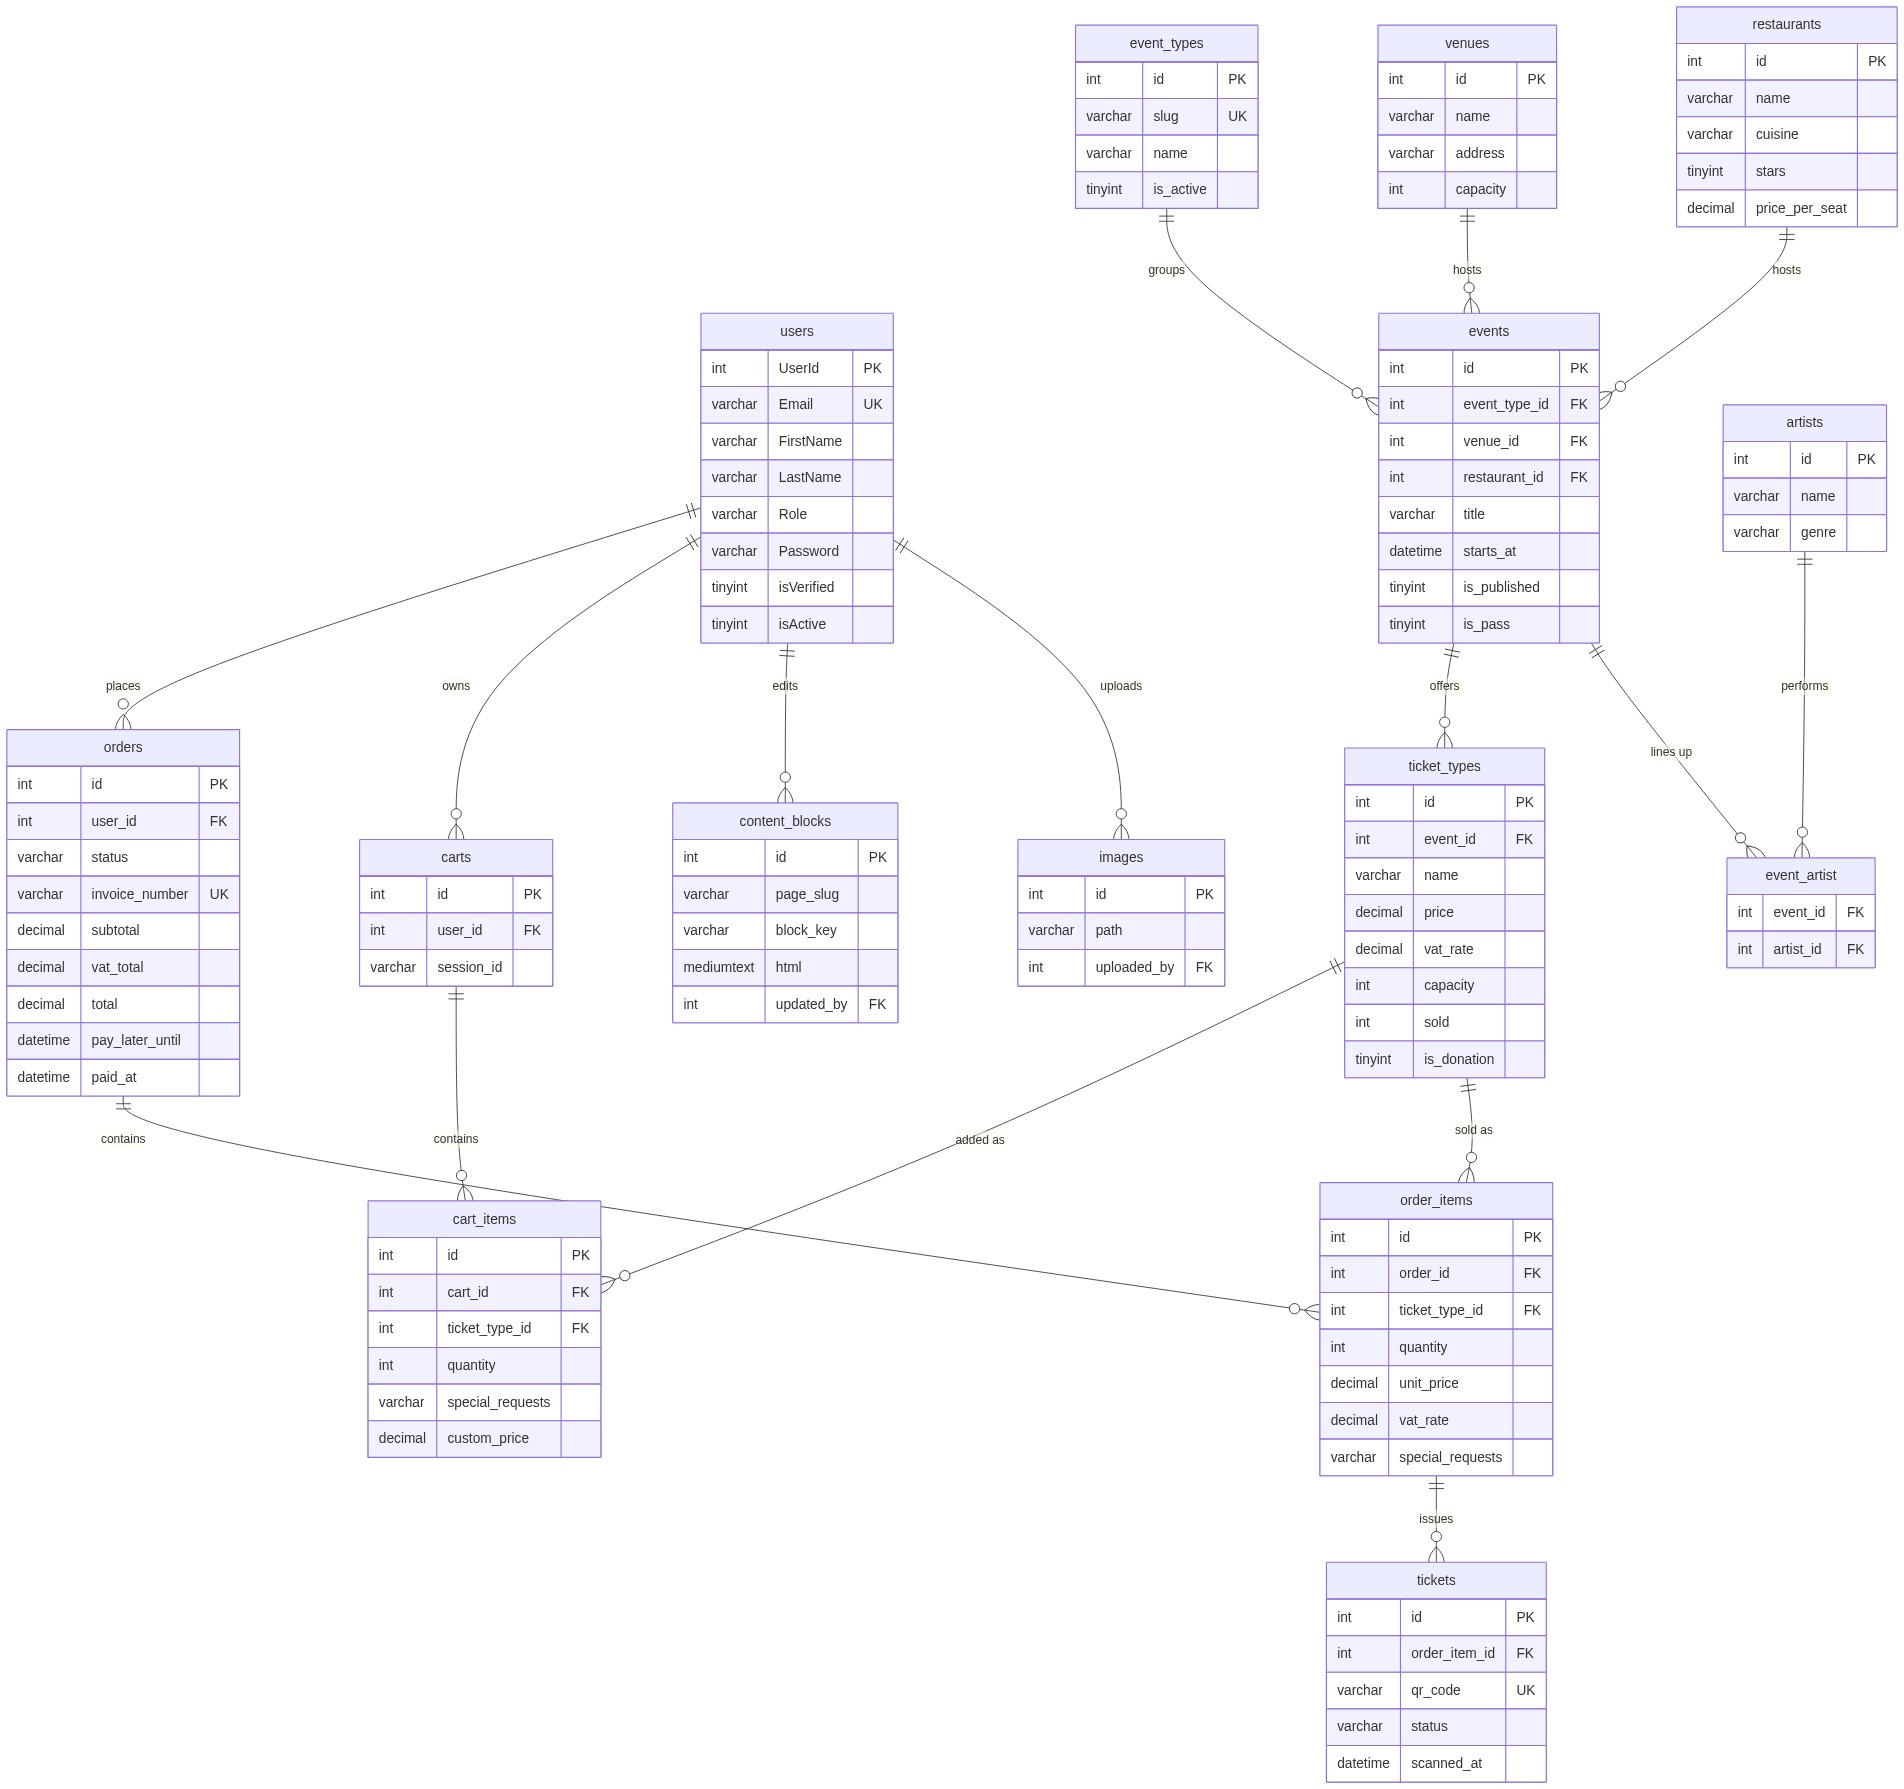
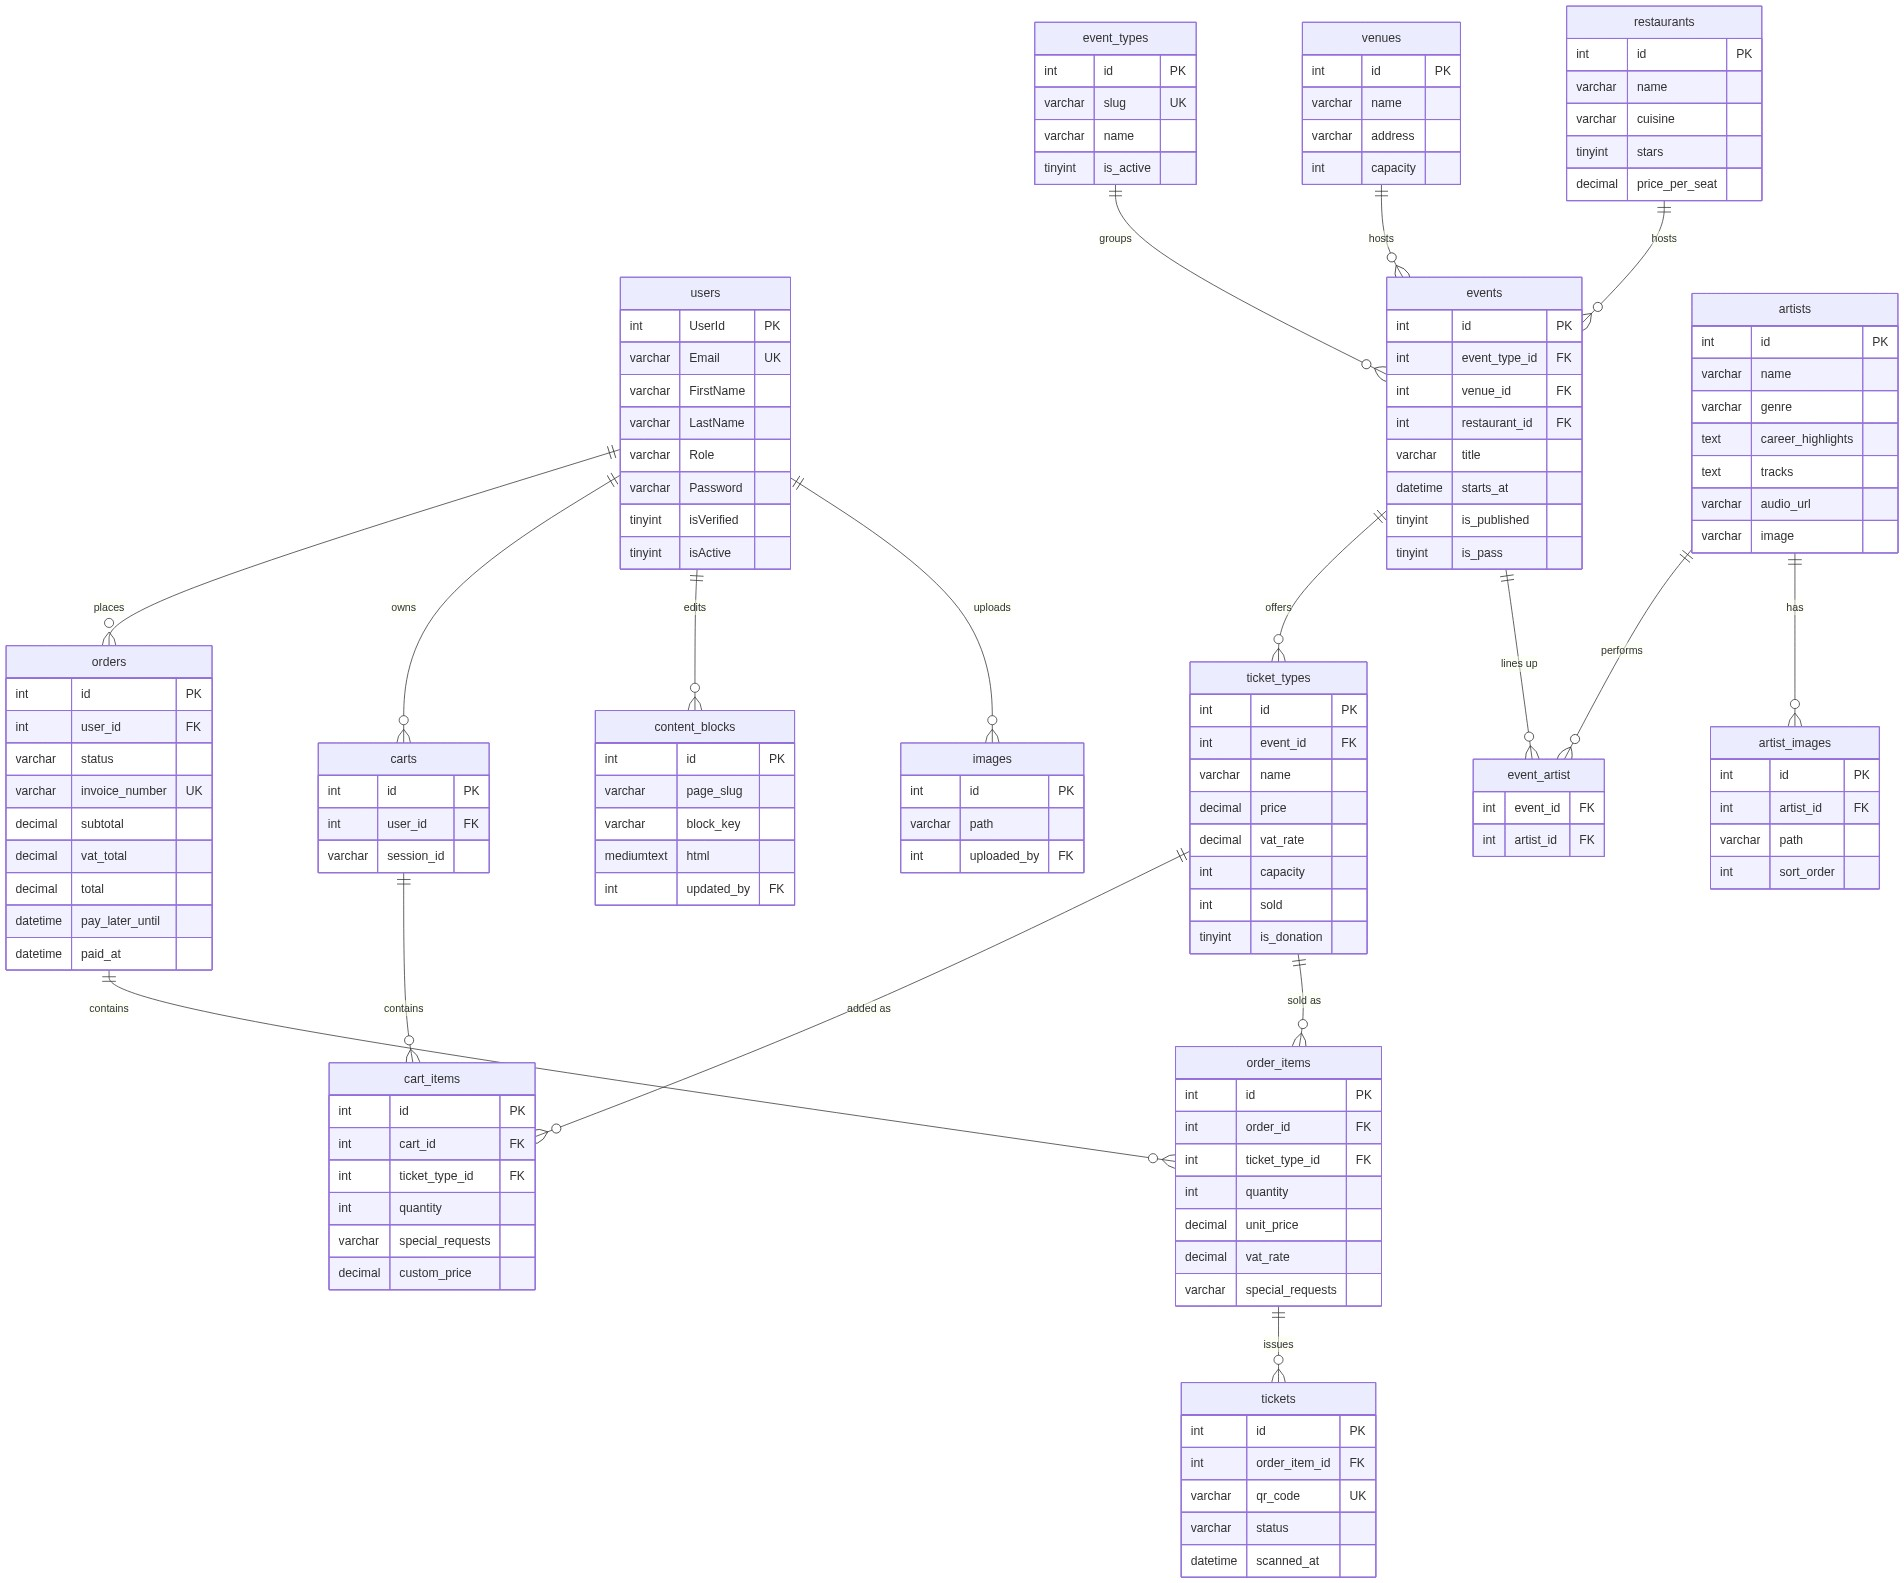
Update technical documentation for artist schema
Regenerates the ERD and UML to include the artist detail fields (career_highlights, tracks, audio_url, image) and the artist_images gallery table.

diff --git a/scripts/gen_technical_docs.py b/scripts/gen_technical_docs.py
@@ -29,6 +29,7 @@ ERD = """erDiagram
     events ||--o{ ticket_types : offers
     events ||--o{ event_artist : "lines up"
     artists ||--o{ event_artist : performs
+    artists ||--o{ artist_images : has
     ticket_types ||--o{ cart_items : "added as"
     ticket_types ||--o{ order_items : "sold as"
     carts ||--o{ cart_items : contains
@@ -68,6 +69,16 @@ ERD = """erDiagram
         int id PK
         varchar name
         varchar genre
+        text career_highlights
+        text tracks
+        varchar audio_url
+        varchar image
+    }
+    artist_images {
+        int id PK
+        int artist_id FK
+        varchar path
+        int sort_order
     }
     events {
         int id PK
@@ -196,6 +207,12 @@ DOMAIN = """classDiagram
         +int id
         +string name
         +string genre
+        +string bio
+        +string career_highlights
+        +string tracks
+        +string audio_url
+        +string[] images
+        +trackList() string[]
     }
     class CartItemModel {
         +int ticket_type_id
@@ -449,7 +466,8 @@ def _entity_table(doc):
         ("event_types", "The six festival events (Jazz, DANCE!, Yummy, History, Magic, Stories)."),
         ("events", "A session/performance under a type, at a venue or restaurant; may be a pass."),
         ("ticket_types", "What can be bought for an event: price, VAT, capacity, donation flag."),
-        ("venues / restaurants / artists", "Catalogue entities; artists link to events many-to-many."),
+        ("venues / restaurants / artists", "Catalogue entities; artists link to events many-to-many and have detail content."),
+        ("artist_images", "Gallery images for an artist's detail page."),
         ("carts / cart_items", "A guest or user cart; lines hold quantity, requests and custom price."),
         ("orders / order_items", "A placed order and its priced lines; status drives pay-later."),
         ("tickets", "Issued per order-item with a unique QR code; scanned at the entrance."),

diff --git a/docs/technical-documentation.md b/docs/technical-documentation.md
@@ -86,6 +86,7 @@ erDiagram
     events ||--o{ ticket_types : offers
     events ||--o{ event_artist : "lines up"
     artists ||--o{ event_artist : performs
+    artists ||--o{ artist_images : has
     ticket_types ||--o{ cart_items : "added as"
     ticket_types ||--o{ order_items : "sold as"
     carts ||--o{ cart_items : contains
@@ -125,6 +126,16 @@ erDiagram
         int id PK
         varchar name
         varchar genre
+        text career_highlights
+        text tracks
+        varchar audio_url
+        varchar image
+    }
+    artist_images {
+        int id PK
+        int artist_id FK
+        varchar path
+        int sort_order
     }
     events {
         int id PK
@@ -260,6 +271,12 @@ classDiagram
         +int id
         +string name
         +string genre
+        +string bio
+        +string career_highlights
+        +string tracks
+        +string audio_url
+        +string[] images
+        +trackList() string[]
     }
     class CartItemModel {
         +int ticket_type_id